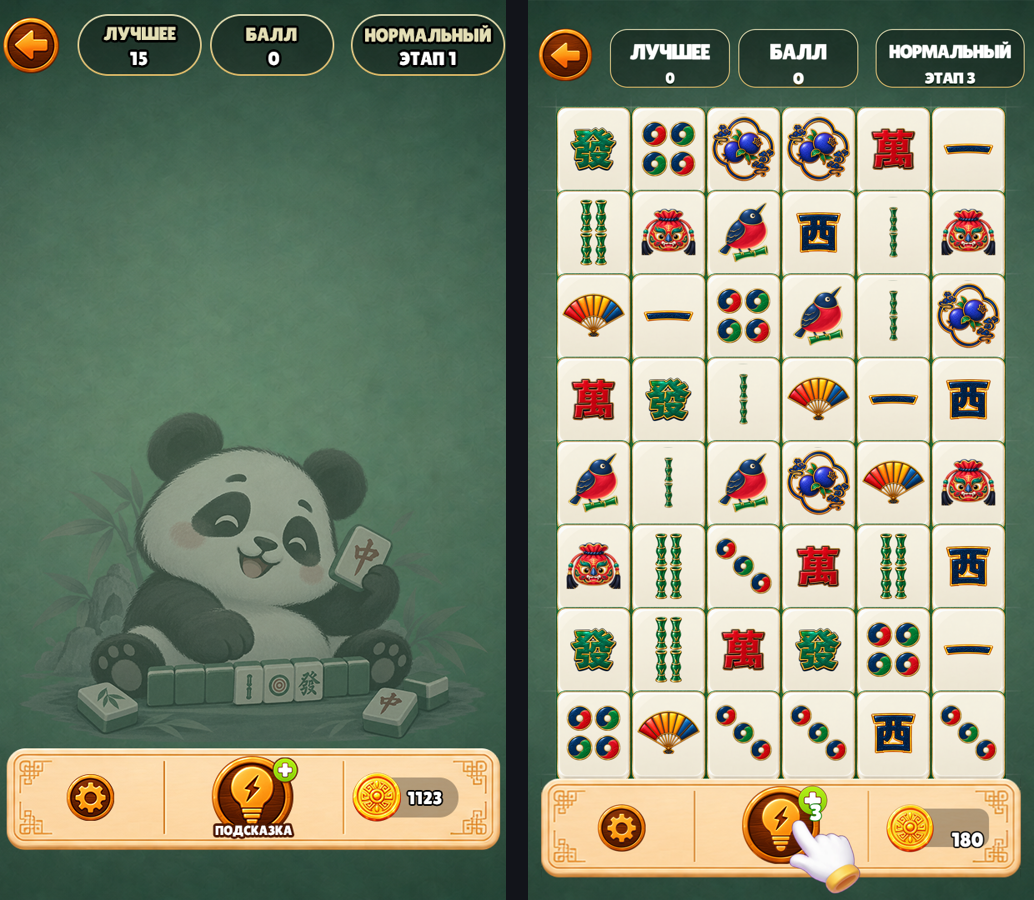
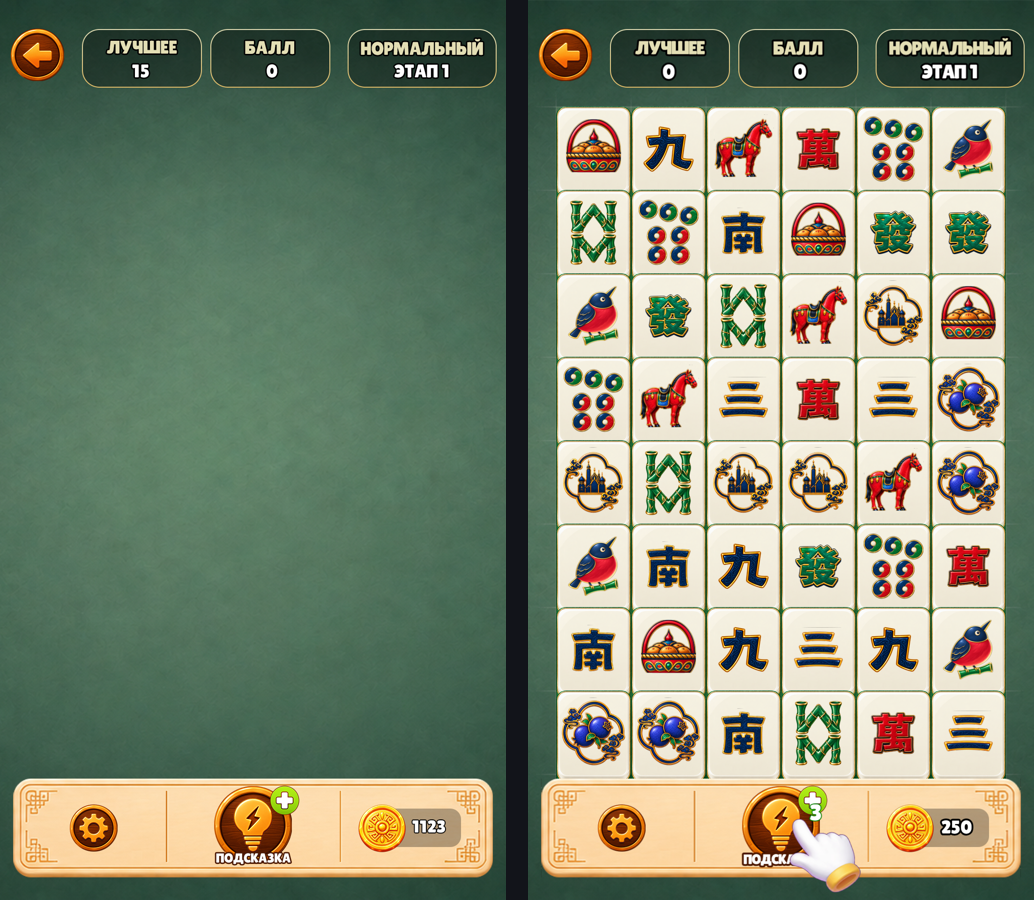
All nine screens built from her layers
The artist sent the remaining seven screens as layers and a finished picture of
each on 2026-09-18. Every screen in the game now uses her drawings:

- settings, avatar picker, hint, level cleared, no moves, best result and the
  rank list are assembled from her layer files and checked against her
  finished screens;
- the game screen's captions are now measured from her finished screen rather
  than estimated;
- the "how to play" row is back in settings.

diff --git a/index.html b/index.html
@@ -35,7 +35,7 @@
 <div class="wrap">
 
 <h1>Маджонг: как выглядит сейчас</h1>
-<p class="lead">Сборка port-art2, 17.09.2026. Слева на каждой паре - макет Ани,
+<p class="lead">Сборка port-art2, 18.09.2026. Слева на каждой паре - макет Ани,
 справа - живой экран игры, снятый сегодня. Всё, что видно справа, кроме текста, это её файлы.</p>
 
 <div class="card">
@@ -44,7 +44,7 @@
 <div class="bar"><i style="width:85%"></i></div>
 <p class="muted">Отдельных файлов внутри сборки (атласы, звук): наших 11 из 84.
 Один файл это пачка картинок, поэтому доли по файлам и по картинкам разные.</p>
-<p>Осталось дорисовать: <b>8</b> кадров интерфейса, <b>22</b> кадров окон и рангов,
+<p>Осталось дорисовать: <b>9</b> кадров интерфейса, <b>22</b> кадров окон и рангов,
 полоса загрузки со спиннером и 21 звук.</p>
 </div>
 
@@ -60,8 +60,8 @@
 <img src="sheets/pair_menu_live.png" alt="Меню">
 <p class="muted">слева макет Ани, справа игра</p>
 <div class="notes">
-  <div class="note have"><b>Уже её</b>Всё: сукно, панда со столиком, кнопки, монета и плашки, шестерня, рамка аватара, иконка рекордов и большая кремовая панель под кнопками, вырезанная из её же макета.</div>
-  <div class="note need"><b>Чего не хватает</b>Ничего. Расстановка пересчитана по её макету и сходится с ним в пределах десяти точек, шрифт сжатый, как у неё. Отличается только живое: имя игрока, число монет, аватарка и падающие лепестки.</div>
+  <div class="note have"><b>Уже её</b>Собрано из её слоёв (14 сентября): все элементы, подписи её шрифтом.</div>
+  <div class="note need"><b>Чего не хватает</b>Ничего. Отличается только живое: имя игрока, число монет, аватарка и падающие лепестки.</div>
 </div>
 </div>
 <div class="card">
@@ -69,8 +69,8 @@
 <img src="sheets/pair_game_live.png" alt="Игровой экран">
 <p class="muted">слева макет Ани, справа игра</p>
 <div class="notes">
-  <div class="note have"><b>Уже её</b>Собран из её слоёв (пакет UI_Game от 17 сентября): сукно, три плашки под «Лучшее / Балл / Этап», кнопка назад, нижняя плашка, шестерня, подсказка, монета и её тёмная пилюля под числом. Плитки и тело плитки - её же.</div>
-  <div class="note need"><b>Чего не хватает</b>Сетка между плитками и линия, которой соединяется пара. Рука-указатель в обучении. Кегль подписей в плашках взят долей от плашки, а не меркой: её готового экрана в пакете не было.</div>
+  <div class="note have"><b>Уже её</b>Собрано из её слоёв и сверено с её готовым экраном (18 сентября): сукно, три плашки, кнопка назад, нижняя панель, шестерня, подсказка с подписью, монета. Подписи в плашках сняты меркой с её экрана.</div>
+  <div class="note need"><b>Чего не хватает</b>Сетка между плитками и линия, которой соединяется пара. Рука-указатель в обучении. Доска у неё пустая намеренно: плитки ставит игра.</div>
 </div>
 </div>
 <div class="card">
@@ -78,8 +78,8 @@
 <img src="sheets/pair_settings_live.png" alt="Настройки">
 <p class="muted">слева макет Ани, справа игра</p>
 <div class="notes">
-  <div class="note have"><b>Уже её</b>Панель окна с пунктиром, крестик, кремовые строки, круглые иконки, тумблеры - всё её.</div>
-  <div class="note need"><b>Чего не хватает</b>Ничего.</div>
+  <div class="note have"><b>Уже её</b>Собрано из её слоёв: панель, три строки с иконками, её тумблеры (включено и выключено), крестик. Вернулась строка «Как играть»: её кнопка показывает обучение.</div>
+  <div class="note need"><b>Чего не хватает</b>Ничего. Надпись на кнопке «СМОТРЕТЬ» вместо её «ВИД»: «Вид» в игре - машинный перевод слова «посмотреть».</div>
 </div>
 </div>
 <div class="card">
@@ -87,17 +87,17 @@
 <img src="sheets/pair_avatars_live.png" alt="Смена аватара">
 <p class="muted">слева макет Ани, справа игра</p>
 <div class="notes">
-  <div class="note have"><b>Уже её</b>Панель окна, крестик, все 15 аватарок, кольцо вокруг выбранной, галочка.</div>
+  <div class="note have"><b>Уже её</b>Собрано из её слоёв: панель, сетка 5 на 3 на её местах, её аватарки, крестик.</div>
   <div class="note need"><b>Чего не хватает</b>Ничего.</div>
 </div>
 </div>
 <div class="card">
-<h3>Таблица рекордов</h3>
-<img src="sheets/pair_rank_live.png" alt="Таблица рекордов">
+<h3>Список рангов после уровня</h3>
+<img src="sheets/pair_rank_list.png" alt="Список рангов после уровня">
 <p class="muted">слева макет Ани, справа игра</p>
 <div class="notes">
-  <div class="note have"><b>Уже её</b>Панель окна, крестик, аватарки соперников, кольца, значки ранга.</div>
-  <div class="note need"><b>Чего не хватает</b>Оранжевые подложки строк - кадры исходной игры. Это белые плашки, которые игра красит на ходу, поэтому от неё нужна только форма, без цвета.</div>
+  <div class="note have"><b>Уже её</b>Собрано из её слоёв: панель, её оранжевые и зелёная плашки строк, плашки номеров, значки, её шаг строк, кнопка. То же окно из меню открывается с её крестиком.</div>
+  <div class="note need"><b>Чего не хватает</b>Значков ранга у неё пять, тиров в игре одиннадцать: её значки разложены по тирам с повторами.</div>
 </div>
 </div>
 <div class="card">
@@ -105,8 +105,8 @@
 <img src="sheets/pair_clue_live.png" alt="Подсказка кончилась">
 <p class="muted">слева макет Ани, справа игра</p>
 <div class="notes">
-  <div class="note have"><b>Уже её</b>Панель окна, крестик, кнопки «Купить» и «Бесплатно», значок видео, монета.</div>
-  <div class="note need"><b>Чего не хватает</b>Внутренняя плашка вокруг лампочки серая, у неё кремовая. Лампочка - кадр исходной игры.</div>
+  <div class="note have"><b>Уже её</b>Собрано из её слоёв: панель, внутренняя плашка, лампочка, две кнопки, монета, значок видео, крестик.</div>
+  <div class="note need"><b>Чего не хватает</b>Ничего.</div>
 </div>
 </div>
 <div class="card">
@@ -114,8 +114,8 @@
 <img src="sheets/pair_win_live.png" alt="Уровень пройден">
 <p class="muted">слева макет Ани, справа игра</p>
 <div class="notes">
-  <div class="note have"><b>Уже её</b>Её панель с выступом сверху, её панда с бамбуком, заголовок и балл внутри панели - собрано.</div>
-  <div class="note need"><b>Чего не хватает</b>Заголовок у неё «Уровень пройден!», у нас «Завершить этап N»: это строка игры, не картинка. Кнопки «Продолжить» нет: игра уходит дальше сама, следующим окном.</div>
+  <div class="note have"><b>Уже её</b>Собрано из её слоёв: панель, панда с бамбуком, заголовок, балл.</div>
+  <div class="note need"><b>Чего не хватает</b>Кнопки «Продолжить» нет: игра уходит дальше сама через несколько секунд, а кнопка, которая ничего не делает, хуже никакой.</div>
 </div>
 </div>
 <div class="card">
@@ -123,8 +123,8 @@
 <img src="sheets/pair_lose_live.png" alt="Нет ходов">
 <p class="muted">слева макет Ани, справа игра</p>
 <div class="notes">
-  <div class="note have"><b>Уже её</b>Её панель с выступом, кнопки внутри панели.</div>
-  <div class="note need"><b>Чего не хватает</b>Вместо её грустной панды над панелью стоит счётчик обратного отсчёта: панду она рисовала только внутри экрана, отдельного файла нет. Заголовок игра перекрашивает в зелёный каждый кадр, поэтому он пока не коричневый. У неё одна кнопка, у нас три: бесплатно за видео, за монеты и «скип».</div>
+  <div class="note have"><b>Уже её</b>Собрано из её слоёв: панель, грустная панда, заголовок, её зелёная кнопка (перемешать за рекламу).</div>
+  <div class="note need"><b>Чего не хватает</b>У неё одна кнопка, у игры три. Покупка за монеты стоит её оранжевой кнопкой под панелью, «скип» - ссылкой под ней. Круг обратного отсчёта заменён её пандой, сам отсчёт идёт.</div>
 </div>
 </div>
 <div class="card">
@@ -132,8 +132,8 @@
 <img src="sheets/pair_best_live.png" alt="Лучший результат">
 <p class="muted">слева макет Ани, справа игра</p>
 <div class="notes">
-  <div class="note have"><b>Уже её</b>Её панель, её панда с медалью, её лавровые ветки вокруг числа, зелёная кнопка, коричневые заголовки - собрано по её макету.</div>
-  <div class="note need"><b>Чего не хватает</b>Заголовок у неё «Лучшее на этой неделе», у нас «Лучшее в истории»: это строка игры.</div>
+  <div class="note have"><b>Уже её</b>Собрано из её слоёв: панель, панда с медалью, лавровые ветки, кнопка.</div>
+  <div class="note need"><b>Чего не хватает</b>Ничего. Подписи игры: «Лучшее в истории» и «Новая игра» вместо её «на этой неделе» и «Продолжить».</div>
 </div>
 </div>
 <h2>Меню: собрано из её слоёв</h2>
@@ -168,12 +168,12 @@ btn_beige                0.0 из 255   совпало
 avatar_sub_name          0.0 из 255   совпало
 
 светлые подписи (наша против её):
-   playername               сдвиг   -2,  -2   ширина 110 против 112   высота  29 против  28
-   jinbidi/coinnum          сдвиг   -0,  +1   ширина  68 против  77   высота  30 против  28
+   playername               сдвиг   +0,  +2   ширина 110 против 112   высота  29 против  28
+   jinbidi/coinnum          сдвиг   +0,  +1   ширина  70 против  77   высота  30 против  28
    icon_paihang/Label-001   сдвиг   +1,  +2   ширина 229 против 235   высота  20 против  19
    btn_tiaoZhan/Label-001   сдвиг   -0,  -4   ширина 373 против 370   высота  50 против  47
    btn_kunnan/Label-001     сдвиг   +0,  -4   ширина 283 против 279   высота  50 против  47
-   btn_kunnan-001/Label-001 сдвиг  -30,  +4   ширина 409 против 351   высота  79 против  75
+   btn_kunnan-001/Label-001 сдвиг   +0,  +2   ширина 349 против 351   высота  74 против  75
 </pre>
 <p class="muted">Отличается только живое: имя игрока, число монет и нарисованная аватарка вместо
 пустого кружка на её экране. Подписи стоят в пределах четырёх точек от её, но наш шрифт при той же
@@ -202,14 +202,8 @@ avatar_sub_name          0.0 из 255   совпало
 а позицию и размер снимаем с её макета, поэтому экран сходится по геометрии, но мелкий рисунок
 элемента отличается от того, что на её картинке.</p>
 
-<h2>Экран, на который макета нет</h2>
-<div class="card">
-<h3>Список рангов после уровня</h3>
-<div class="pair"><figure style="margin:0"><img src="shots/rankup_live.png" alt="Список рангов после уровня"></figure>
-<div class="note need"><b>Что с ним делать</b>Открывается сразу после победы. Макета на него нет: оранжевая шапка, строчный заголовок и оранжевые подложки строк - всё это кадры исходной игры. Либо просим макет, либо собираем из того, что уже есть в других окнах.</div></div>
-</div>
 <h2>Чего не хватает: интерфейс</h2>
-<p>8 картинок. Это те кадры, где до сих пор пиксели исходной игры и которые видно.
+<p>9 картинок. Это те кадры, где до сих пор пиксели исходной игры и которые видно.
 Кадры выключенных экранов (выбор темы, шапка окна) сюда не попали - их рисовать не надо.</p>
 <img src="sheets/left_img.png" alt="оставшиеся кадры интерфейса">
 

diff --git a/brief.html b/brief.html
@@ -32,7 +32,7 @@
 <div class="wrap">
 
 <h1>Маджонг: что дорисовать</h1>
-<p class="lead">Лист для Ани, 17.09.2026. Что уже стоит в игре - на
+<p class="lead">Лист для Ани, 18.09.2026. Что уже стоит в игре - на
 <a href="index.html">странице статуса</a>. Здесь только то, чего ещё нет, с точными размерами и картинкой,
 как оно выглядит сейчас.</p>
 
